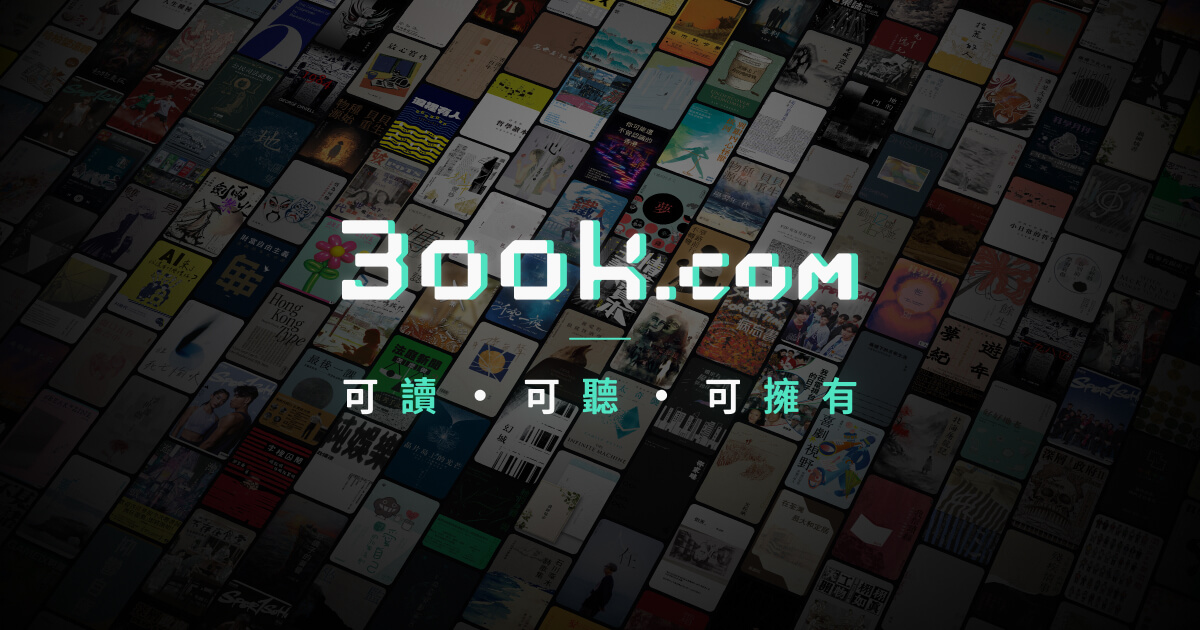
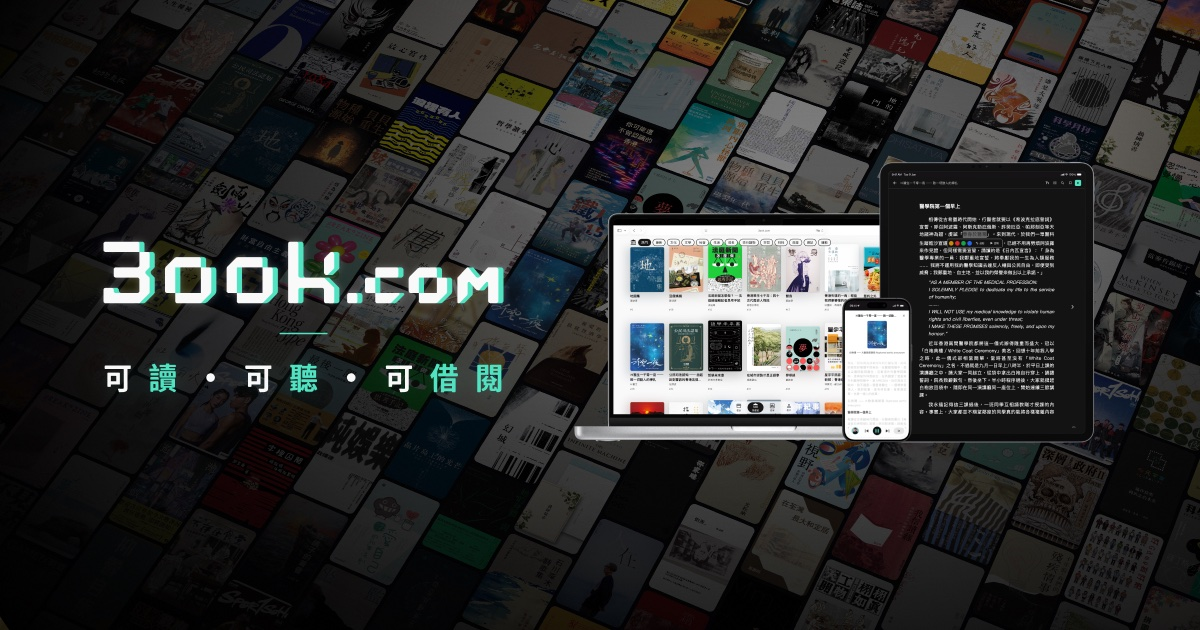
💬 Update OG images and unify brand wording in meta descriptions

diff --git a/nuxt.config.ts b/nuxt.config.ts
@@ -626,7 +626,7 @@ export default defineNuxtConfig({
     manifest: {
       name: '3ook.com',
       short_name: '3ook.com',
-      description: 'Read, Listen, Own — 3rd-gen decentralized bookstore',
+      description: 'Read, Listen, Borrow — an ebook platform',
       theme_color: '#131313',
       background_color: '#f9f9f9',
       orientation: 'portrait',
